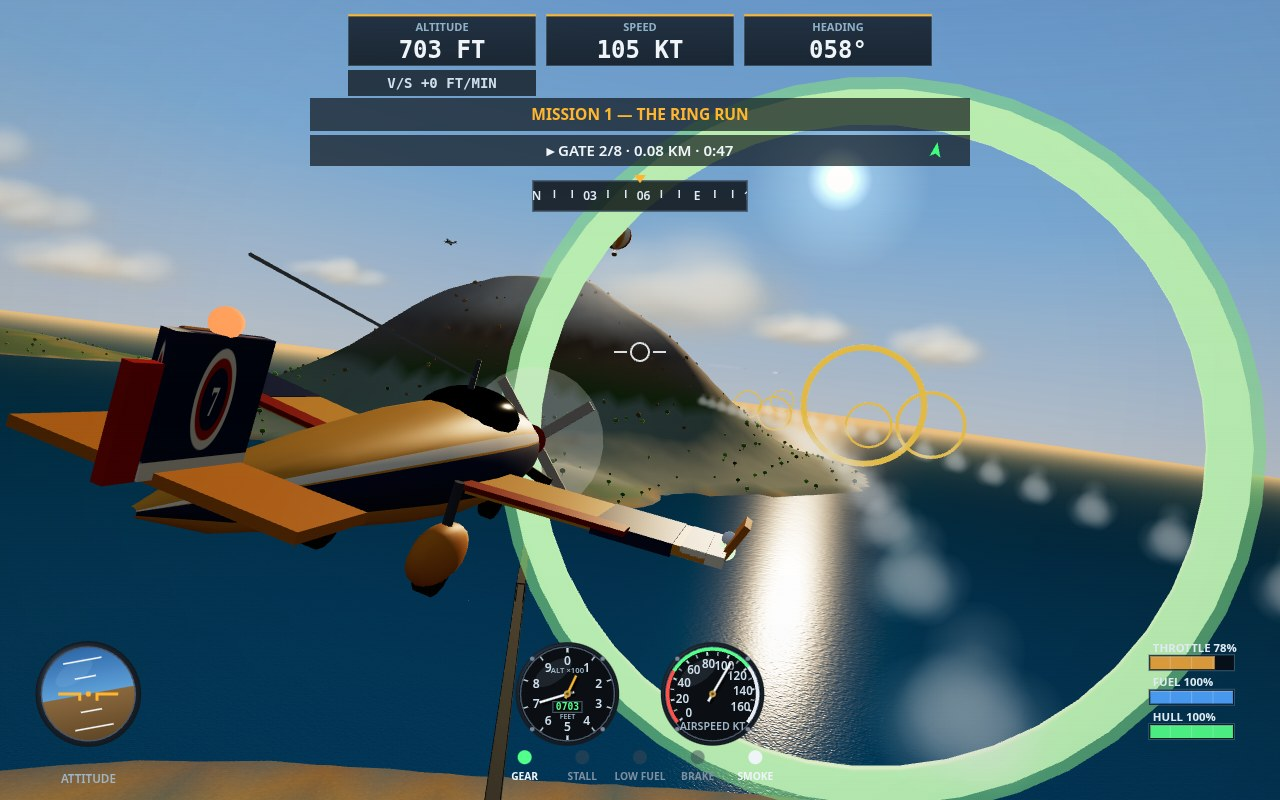
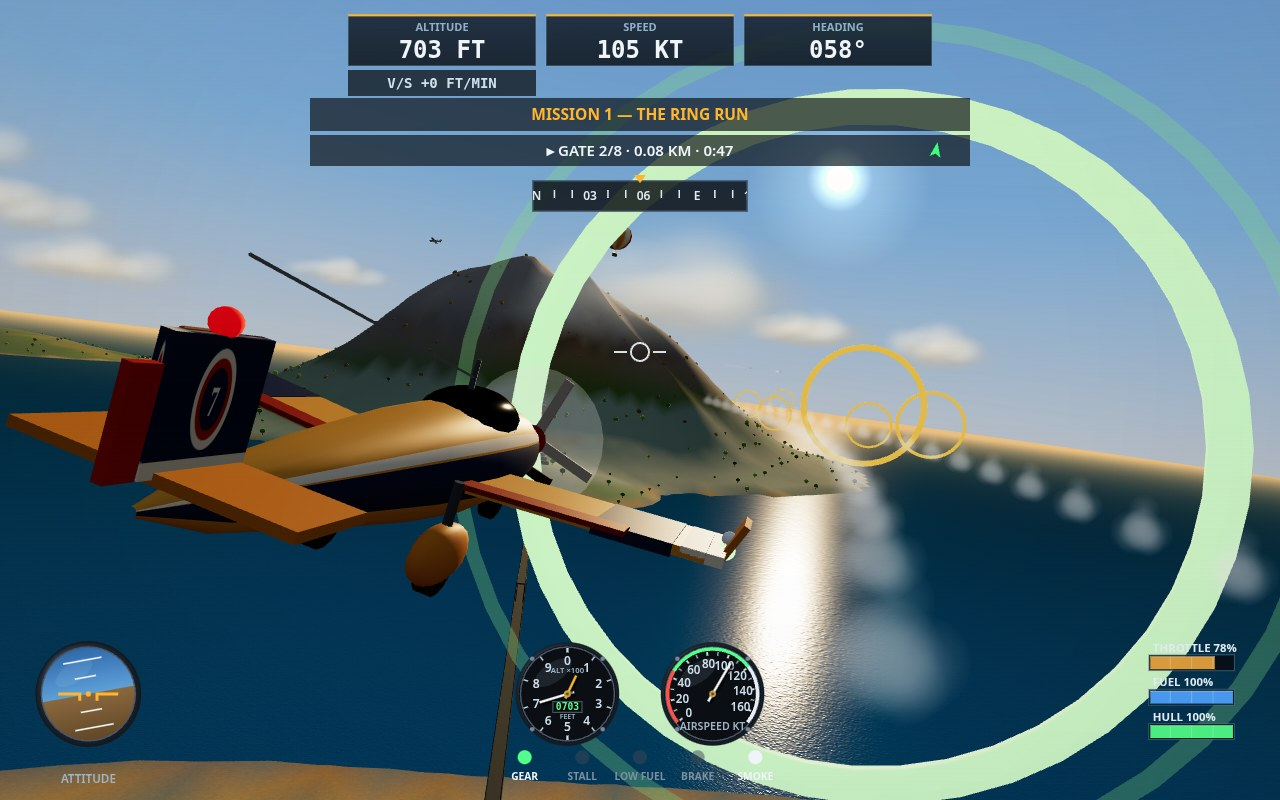
v20 skyline & light: give Mount Vela a real skyline and light its strait flank — a shoulder peak and a ring of teeth under the summit in the visual-only ridge layer (Vela alone, azimuth-gated to the strait side so the Porto Lume approach keeps its v19 face), a Vela-gated lift in the baked terrain gr

diff --git a/game/src/renderer-3d.js b/game/src/renderer-3d.js
@@ -323,8 +323,16 @@ export function buildTerrainMesh(detailTex) {
     const h = pos.getY(i);
     const slope = 1 - normals.getY(i);
     biomeColour(x, z, h, slope, tmp);
+    // v20: a gate around Mount Vela alone. Inside it the strait
+    // flank — the shadow side the cargo camera reads — keeps
+    // more of its colour and takes rock earlier, so it reads as
+    // shaped ground instead of a dark blob. The gate dies to
+    // zero well short of Porto Lume and the Meridian valley, so
+    // the approach and finale frames keep their v19 light.
+    const vg = Math.max(0, Math.min(1, (1250 - Math.hypot(x - 1900, z + 700)) / 300))
+      * Math.max(0, Math.min(1, (0.10 - Math.atan2(x - 1900, z + 700)) / 0.12));
     const crest = ridgeCrest(x, z, h);
-    if (crest > 0.3) tmp.lerp(CREST_ROCK, Math.min(0.78, (crest - 0.3) * 1.15));
+    if (crest > 0.3 - vg * 0.14) tmp.lerp(CREST_ROCK, Math.min(0.78 + vg * 0.07, (crest - 0.3 + vg * 0.14) * 1.15));
     // Baked light (v15). The directional sun alone leaves the smooth
     // island domes reading flat, so two cheap terms are folded into
     // the vertex colour: a fake ambient occlusion — ground whose
@@ -340,9 +348,9 @@ export function buildTerrainMesh(detailTex) {
       const ao = (1 - Math.min(0.32, hollow * 0.011)) * (0.95 + 0.05 * Math.min(1, h / 120));
       const sunFace = normals.getX(i) * SUN.x + normals.getY(i) * SUN.y + normals.getZ(i) * SUN.z;
       const lit = Math.max(0, sunFace);
-      tmp.multiplyScalar((0.84 + 0.28 * lit) * ao);
+      tmp.multiplyScalar((0.84 + 0.28 * lit + vg * 0.16 * (1 - lit)) * ao);
       tmp.lerp(SUN_WARM, lit * lit * 0.15);
-      tmp.lerp(SHADE_COOL, Math.max(0, -sunFace) * 0.10 + (1 - lit) * 0.03);
+      tmp.lerp(SHADE_COOL, (Math.max(0, -sunFace) * 0.10 + (1 - lit) * 0.03) * (1 - vg * 0.65));
     }
     colours[i * 3] = tmp.r; colours[i * 3 + 1] = tmp.g; colours[i * 3 + 2] = tmp.b;
   }
@@ -807,8 +815,10 @@ export function buildWaterfall(group, glowTex) {
 // stepped plinth — a silhouette first, a statue second: at
 // thumbnail size the raised spear and helm crest are the read.
 export function buildGuardian(group) {
-  const stone = new THREE.MeshStandardMaterial({ color: 0x918f85, roughness: 0.95 });
-  const stoneDark = new THREE.MeshStandardMaterial({ color: 0x747268, roughness: 0.97 });
+  // v20: paler stone, so the figure holds its own against the
+  // dark flank behind it at thumbnail size.
+  const stone = new THREE.MeshStandardMaterial({ color: 0xa9a69b, roughness: 0.95 });
+  const stoneDark = new THREE.MeshStandardMaterial({ color: 0x8b887d, roughness: 0.97 });
   const moss = new THREE.MeshStandardMaterial({ color: 0x67754d, roughness: 1 });
   const g = new THREE.Group();
   const box = (mat, w, h, d, x, y, z, rz = 0) => {
@@ -842,6 +852,10 @@ export function buildGuardian(group) {
   box(stoneDark, 6.9, 1.6, 1.3, 0, 79.6, -3.3); // the brow slab
   box(stone, 0.9, 4.6, 10.5, 0, 84.2, -0.3); // the helm crest
   g.traverse((o) => { if (o.isMesh) o.castShadow = true; });
+  // v20: a third again as tall — the plinth base sits on the
+  // group origin, so the scale grows the figure upward from
+  // its seat and the summit keeps it.
+  g.scale.setScalar(1.3);
   // Face the strait gate: the ring line's second hoop.
   const fx = 530 - 1250;
   const fz = 1100 - 150;

diff --git a/game/src/terrain-archipelago.js b/game/src/terrain-archipelago.js
@@ -88,7 +88,38 @@ export function ridgeCrest(x, z, h) {
     const crests = Math.pow(0.5 + 0.5 * Math.sin(Math.atan2(dx, dz) * 3 + isl.x * 0.01), 1.6);
     best = Math.max(best, crests * env * gate);
   }
-  return best;
+  // v20: Vela's skyline relief wears rock too (see velaSkyline).
+  return Math.max(best, Math.min(1, velaSkyline(x, z, h) * 6));
+}
+
+// v20: Mount Vela's skyline relief. From the cover station the
+// mountain stands 2.3 km off, and the v18 ring alone leaves its
+// outline one smooth arc — so Vela (and only Vela: the other
+// ridge island keeps its v18 shaping, and the finale's valley is
+// untouched) grows a shoulder peak on its western flank, clear
+// of the waterfall line, and a ring of teeth under the summit.
+// Returns a fraction of the peak height; ridgeCrest reads the
+// same shape so the new skyline wears rock, not lawn.
+const VELA = ISLANDS.find((i) => i.peak >= 300);
+const SHOULDER_R = VELA ? VELA.radius * 0.42 : 0;
+const SHOULDER_X = VELA ? VELA.x + Math.sin(-1.35) * SHOULDER_R : 0;
+const SHOULDER_Z = VELA ? VELA.z + Math.cos(-1.35) * SHOULDER_R : 0;
+
+export function velaSkyline(x, z, h) {
+  if (!VELA || h < 18) return 0;
+  const dx = x - VELA.x;
+  const dz = z - VELA.z;
+  const r = Math.hypot(dx, dz);
+  if (r > VELA.radius * 1.05) return 0;
+  const gate = Math.min(1, (h - 18) / 55);
+  // The relief lives on the strait side only: it fades out
+  // across the summit's south shoulder, so the face the Porto
+  // Lume approach looks at keeps its v19 shape exactly.
+  const azg = Math.max(0, Math.min(1, (0.10 - Math.atan2(dx, dz)) / 0.12));
+  const teeth = Math.pow(0.5 + 0.5 * Math.sin(Math.atan2(dx, dz) * 6 + 2.1), 2)
+    * Math.exp(-((r / (VELA.radius * 0.80)) ** 2)) * Math.min(1, r / 130) * azg;
+  const shoulder = Math.exp(-(((x - SHOULDER_X) ** 2 + (z - SHOULDER_Z) ** 2) / (VELA.radius * 0.30) ** 2)) * azg;
+  return gate * (0.12 * teeth + 0.13 * shoulder);
 }
 
 function ridgeHeight(x, z, h) {
@@ -108,6 +139,8 @@ function ridgeHeight(x, z, h) {
     // The sharpened main peak: a cone boost over the summit.
     add += isl.peak * 0.11 * gate * Math.exp(-((r / (isl.radius * 0.34)) ** 2));
   }
+  // v20: the skyline relief (shoulder + teeth) on Vela alone.
+  if (VELA) add += VELA.peak * velaSkyline(x, z, h);
   return add;
 }
 

diff --git a/game/src/shots.js b/game/src/shots.js
@@ -47,7 +47,10 @@ export function applyShotScene(game, name) {
   // the camera squares up — equal side and back, riding higher —
   // so plane, falls and Guardian compose as one picture instead
   // of two halves split by open sea.
-  const PROFILE_TRACK = { side: 11, up: 3.4, aim: 18, back: 11, aimSide: -2 };
+  // v20: the camera rides higher (up 3.4 -> 6.2), pitching the
+  // track down the flank so the waterfall's plunge pool — churn,
+  // mist and all — lands inside the frame instead of below it.
+  const PROFILE_TRACK = { side: 11, up: 6.2, aim: 18, back: 11, aimSide: -2 };
   if (name === 'approach') {
     // Leg 3: the waterfront final over the rooftops of Porto Lume.
     // (v16 scouting tried starting further out; the town shrank to
